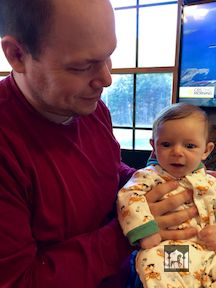
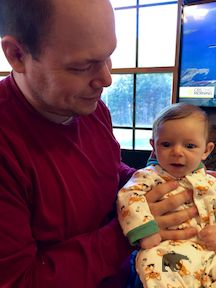
Fixed photos watermark.

Changed region(s): [[0.75, 0.8438, 0.8889, 0.9688]]

diff --git a/drafts/soyouwanttojointheforeignservicepart1.html b/drafts/soyouwanttojointheforeignservicepart1.html
@@ -157,7 +157,7 @@ role="navigation">
   <div class="panel-heading">
     <h4 class="panel-title">
       <a data-toggle="collapse" href="#series_content">
-        Part <built-in method index of unicode object at 0x10d2dd420> of the  series
+        Part <built-in method index of unicode object at 0x108371480> of the  series
       </a>
     </h4>
   </div>

diff --git a/drafts/soyouwanttojointheforeignservicepart2.html b/drafts/soyouwanttojointheforeignservicepart2.html
@@ -138,7 +138,7 @@ role="navigation">
   <div class="panel-heading">
     <h4 class="panel-title">
       <a data-toggle="collapse" href="#series_content">
-        Part <built-in method index of unicode object at 0x10d2dd210> of the  series
+        Part <built-in method index of unicode object at 0x108371270> of the  series
       </a>
     </h4>
   </div>

diff --git a/drafts/soyouwanttojointheforeignservicepart3.html b/drafts/soyouwanttojointheforeignservicepart3.html
@@ -138,7 +138,7 @@ role="navigation">
   <div class="panel-heading">
     <h4 class="panel-title">
       <a data-toggle="collapse" href="#series_content">
-        Part <built-in method index of unicode object at 0x10d2e3ea0> of the  series
+        Part <built-in method index of unicode object at 0x108379f00> of the  series
       </a>
     </h4>
   </div>
